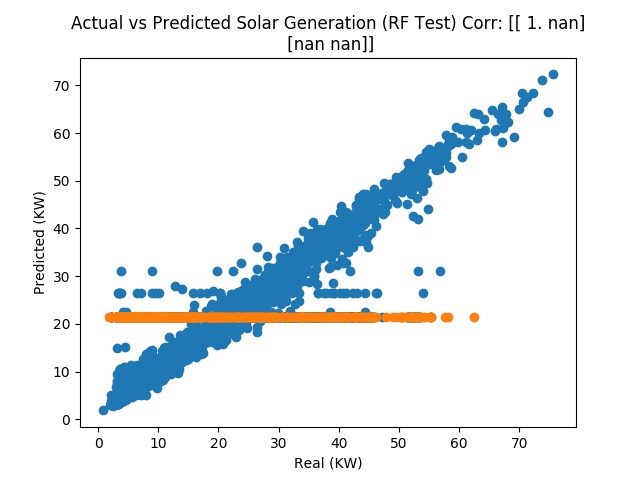
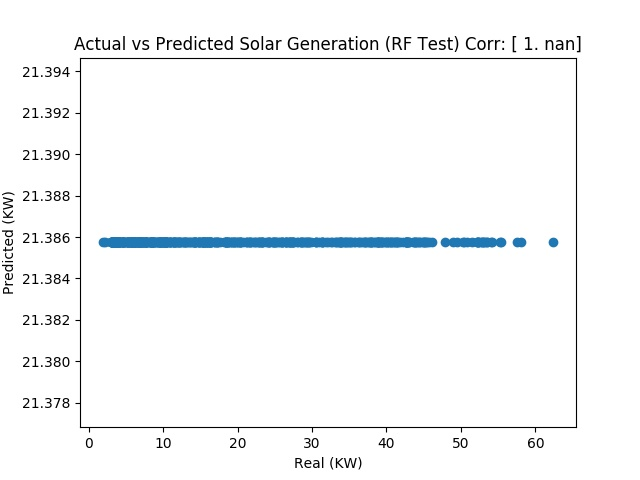
fixed rf_test1.jpg

diff --git a/code/random_forest.py b/code/random_forest.py
@@ -31,21 +31,21 @@ with np.errstate(invalid='ignore'):
     correlation = np.corrcoef(y_train, predictions)
 
 
-    title_name = 'Actual vs Predicted Solar Generation (RF Training) Corr: {}'.format(correlation)
+    title_name = 'Actual vs Predicted Solar Generation (RF Training) Corr: {}'.format(correlation[0])
     x_axis_label = "Real (KW)"
     y_axis_label = "Predicted (KW)"
 
-    plt.scatter(y_train, predictions)
-    plt.title(title_name)
-    plt.xlabel(x_axis_label)
-    plt.ylabel(y_axis_label)
-    plt.savefig('../figures/rf_train1.jpg')
+    #plt.scatter(y_train, predictions)
+    #plt.title(title_name)
+    #plt.xlabel(x_axis_label)
+    #plt.ylabel(y_axis_label)
+    #plt.savefig('../figures/rf_train1.jpg')
 
     # TEST DATA
     predictions2 = regressor.predict(x_test)
     correlation2 = np.corrcoef(y_test, predictions2)
 
-    title_name2 = "Actual vs Predicted Solar Generation (RF Test) Corr: {}".format(correlation2)
+    title_name2 = "Actual vs Predicted Solar Generation (RF Test) Corr: {}".format(correlation2[0])
     x_axis_label2 = "Real (KW)"
     y_axis_label2 = "Predicted (KW)"
 
